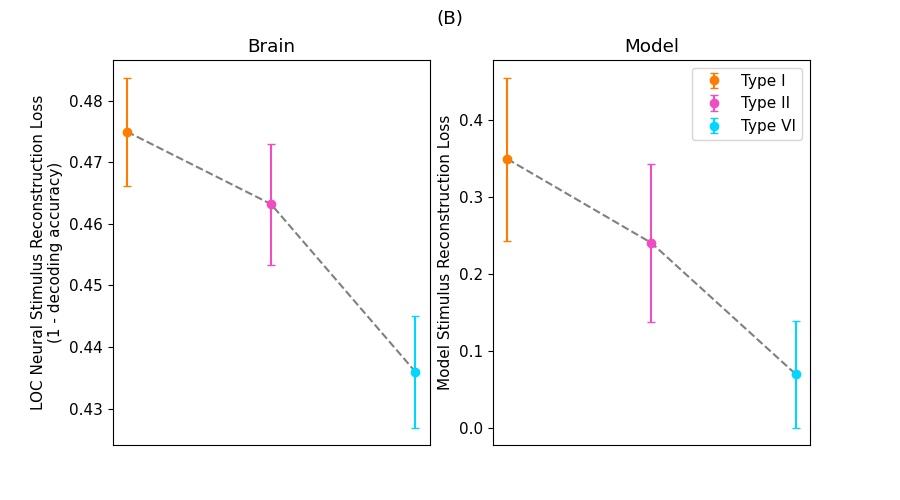
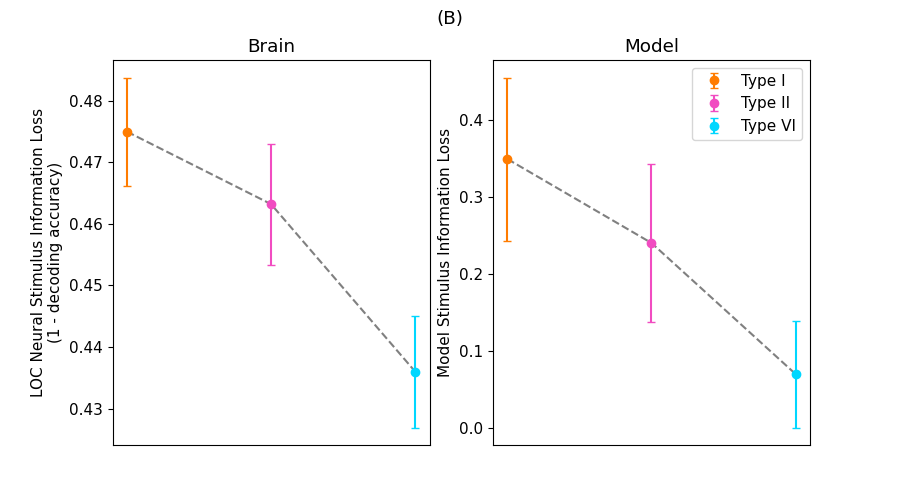
update results: use `information loss`

Changed region(s): [[0.0311, 0.18, 0.0622, 0.81], [0.4667, 0.24, 0.4978, 0.78]]

diff --git a/figures.py b/figures.py
@@ -354,10 +354,10 @@ def Fig_recon_n_decoding(attn_config_version, v):
             axes[i].plot(range(len(problem_types)), means, color='grey', linestyle='dashed')
             axes[i].set_xticks([])
             if i == 0:
-                axes[i].set_ylabel(f'{roi} Neural Stimulus Reconstruction Loss\n(1 - decoding accuracy)')
+                axes[i].set_ylabel(f'{roi} Neural Stimulus Information Loss\n(1 - decoding accuracy)')
                 axes[i].set_title(f'Brain')
             else:
-                axes[i].set_ylabel('Model Stimulus Reconstruction Loss')
+                axes[i].set_ylabel('Model Stimulus Information Loss')
                 axes[i].set_title(f'Model')
         
         plt.legend()
@@ -487,7 +487,7 @@ def Fig_binary_recon(attn_config_version, v, threshold=[0, 0, 0]):
         axes[row_idx].set_ylim([-0.1, 2])
         axes[row_idx].set_title(f'Type {TypeConverter[problem_type]}')
     
-    axes[1].set_ylabel('Reconstruction Loss')
+    axes[1].set_ylabel('Information Loss')
     axes[-1].set_xlabel('Abstract Dimension')
     # plt.tight_layout()
     plt.suptitle('(A)')
